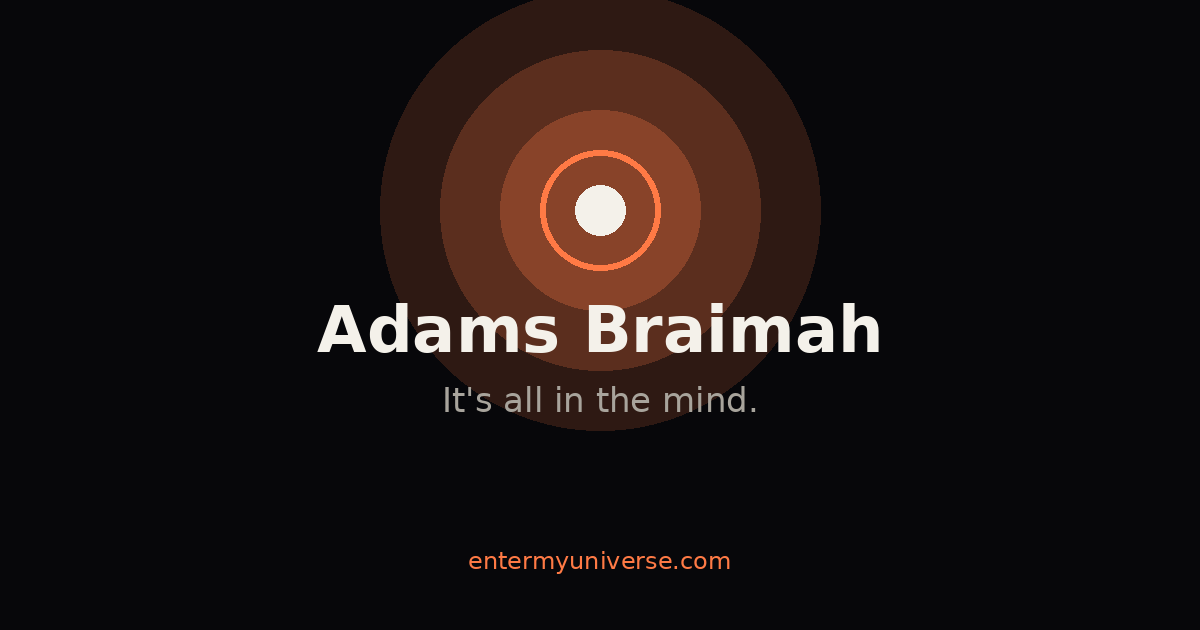
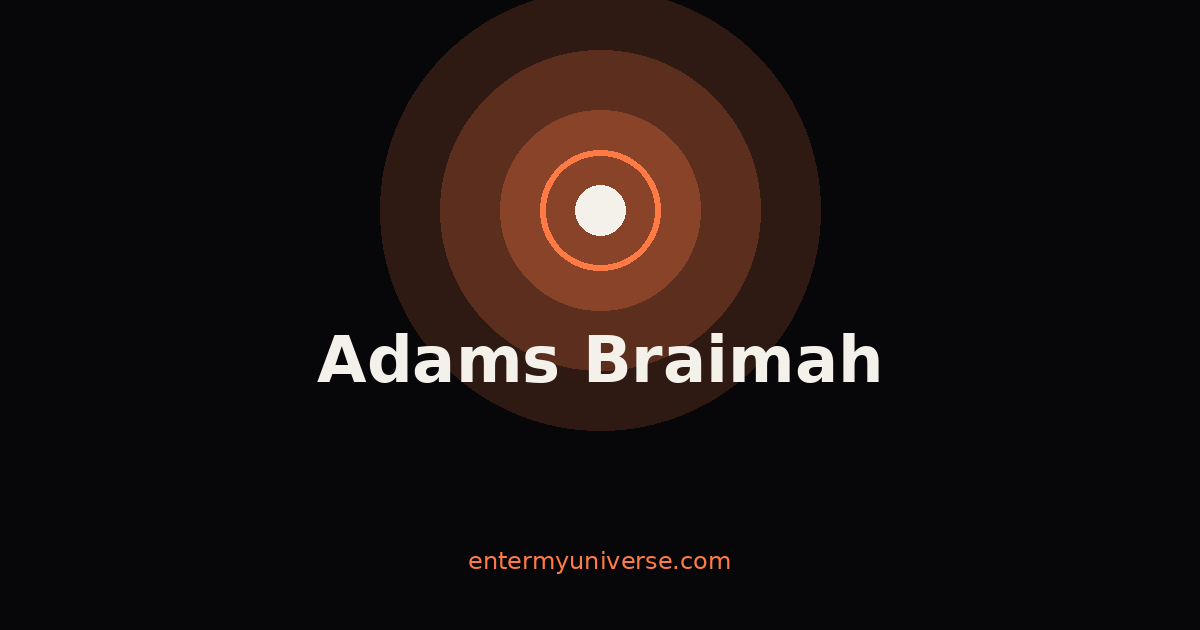
Remove hero tagline from the portfolio
Drop “It’s all in the mind.” from content and the share image so the
hero leads with name only.

Changed region(s): [[0.2467, 0.4825, 0.74, 0.6635]]

diff --git a/src/main.js b/src/main.js
@@ -64,7 +64,7 @@ function renderHero() {
     <header class="hero rise" style="--d:40ms">
       <div class="portrait-wrap">${media}</div>
       <h1 class="hero__name">${escapeHtml(content.name)}</h1>
-      <p class="hero__tagline">${escapeHtml(content.tagline)}</p>
+      ${content.tagline?.trim() ? `<p class="hero__tagline">${escapeHtml(content.tagline.trim())}</p>` : ""}
     </header>
   `;
 }

diff --git a/src/content.js b/src/content.js
@@ -13,7 +13,7 @@
 
 export const content = {
   name: "Adams Braimah",
-  tagline: "It's all in the mind.",
+  tagline: "",
   siteUrl: "https://entermyuniverse.com",
   metaTitle: "Adams Braimah — Enter My Universe",
   metaDescription:
